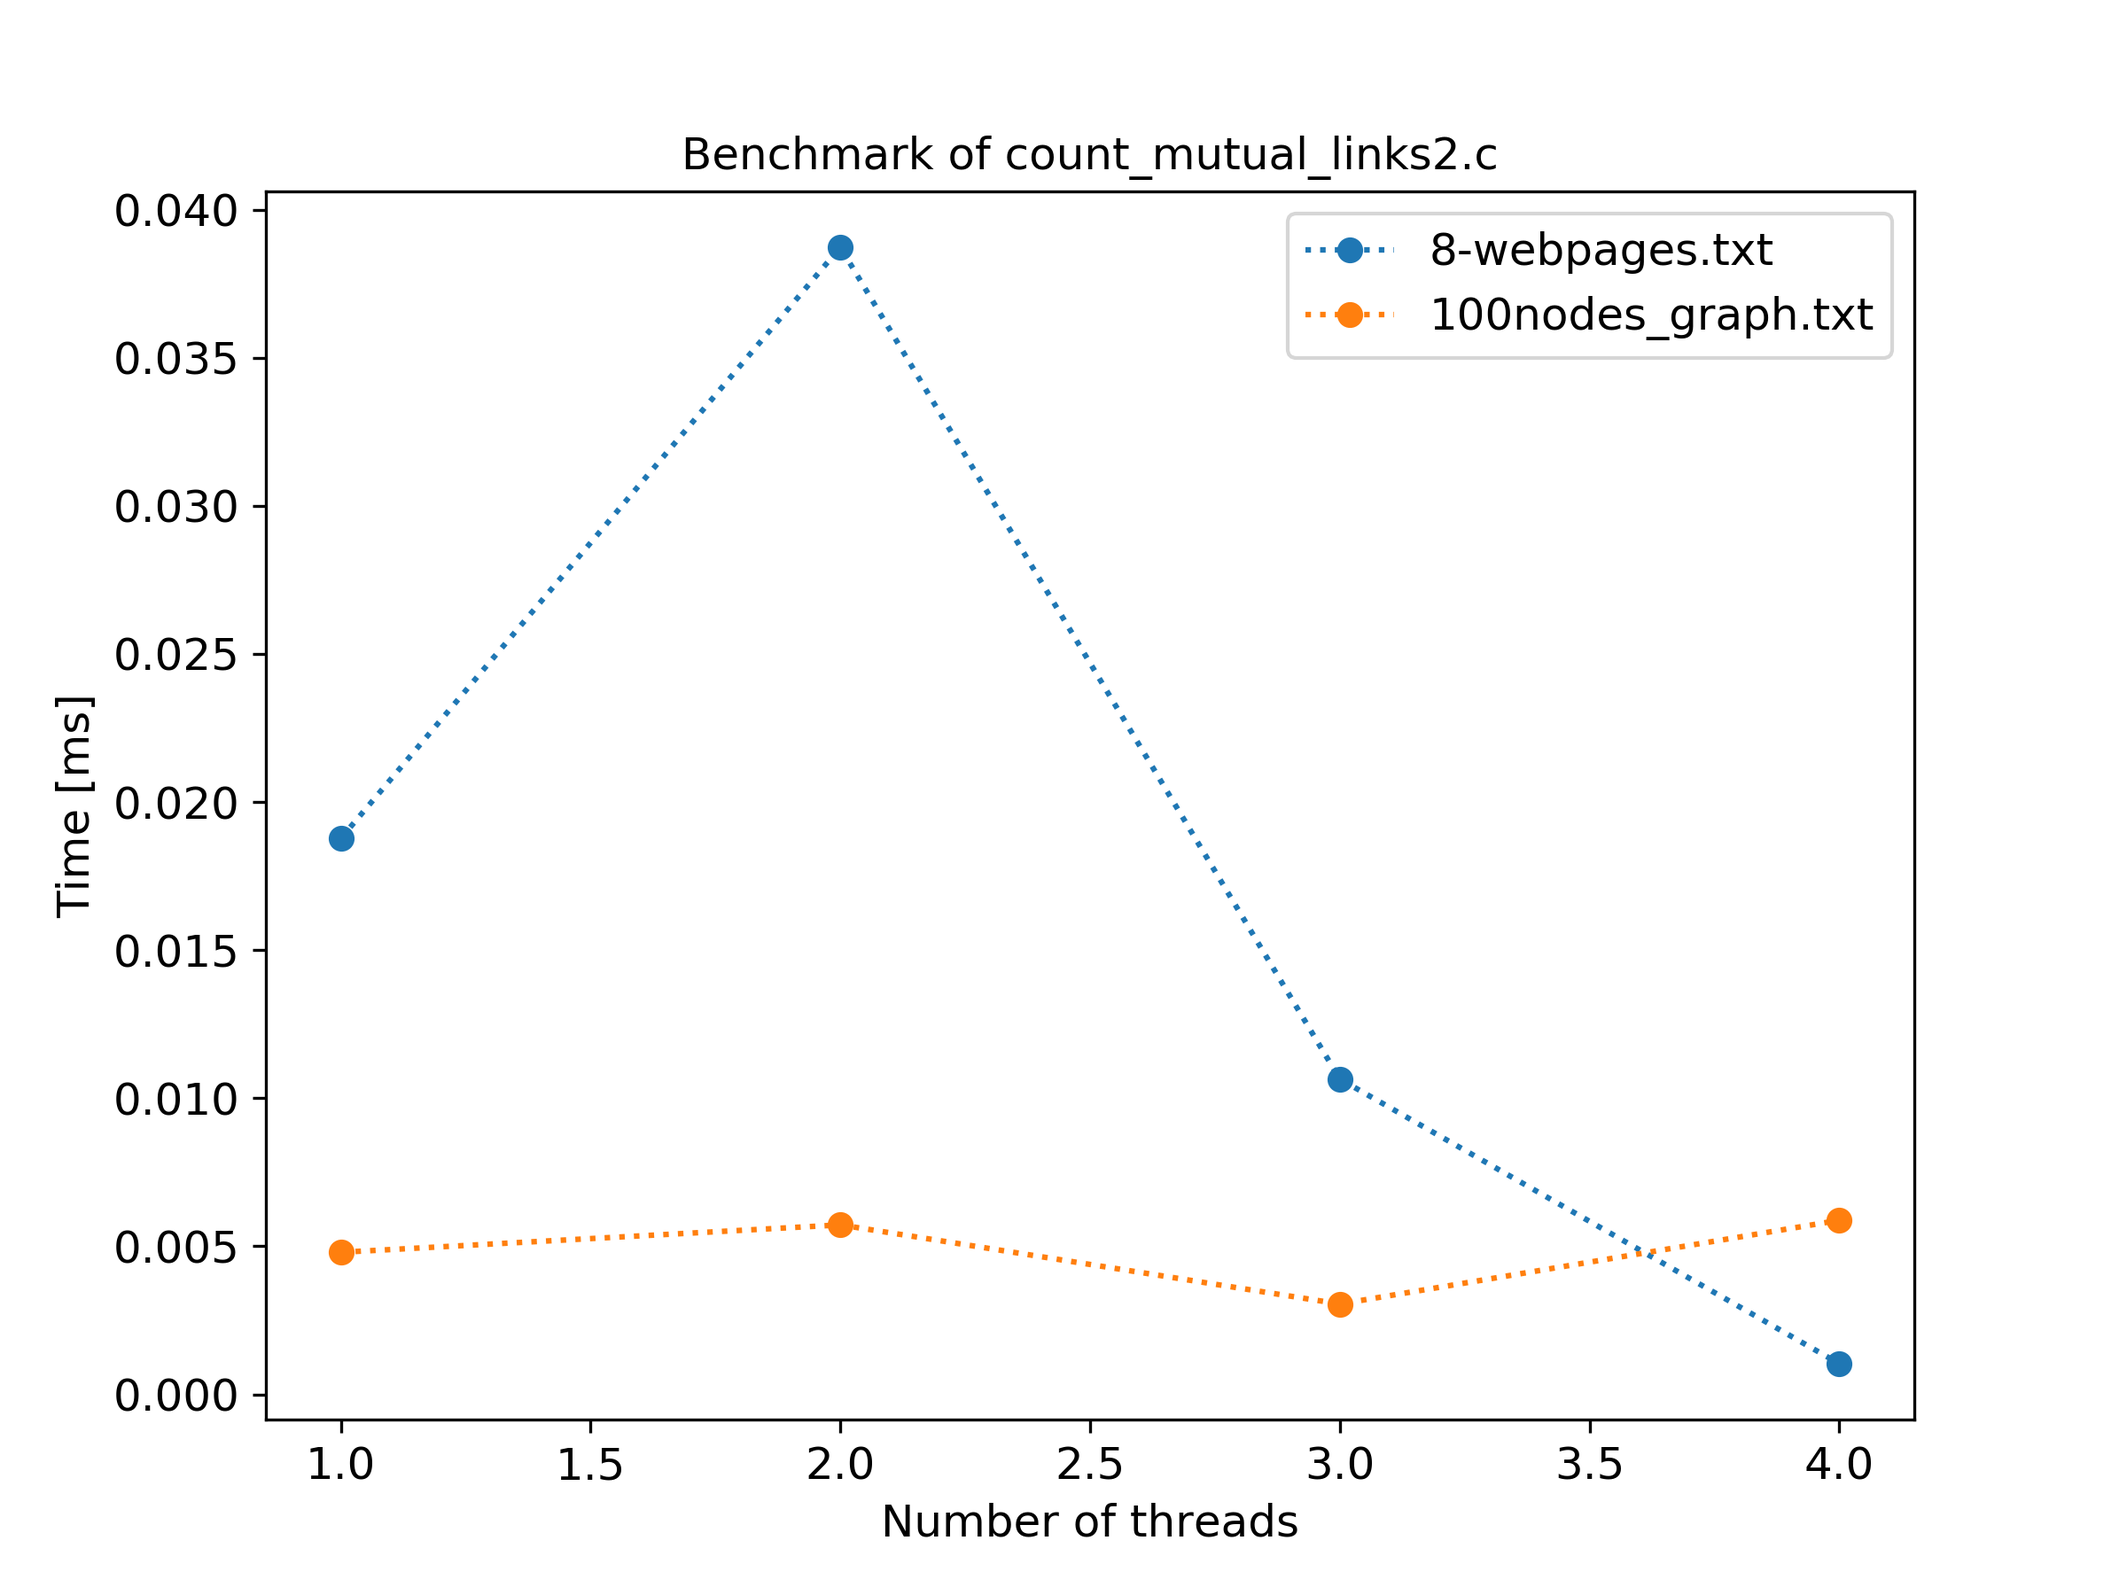
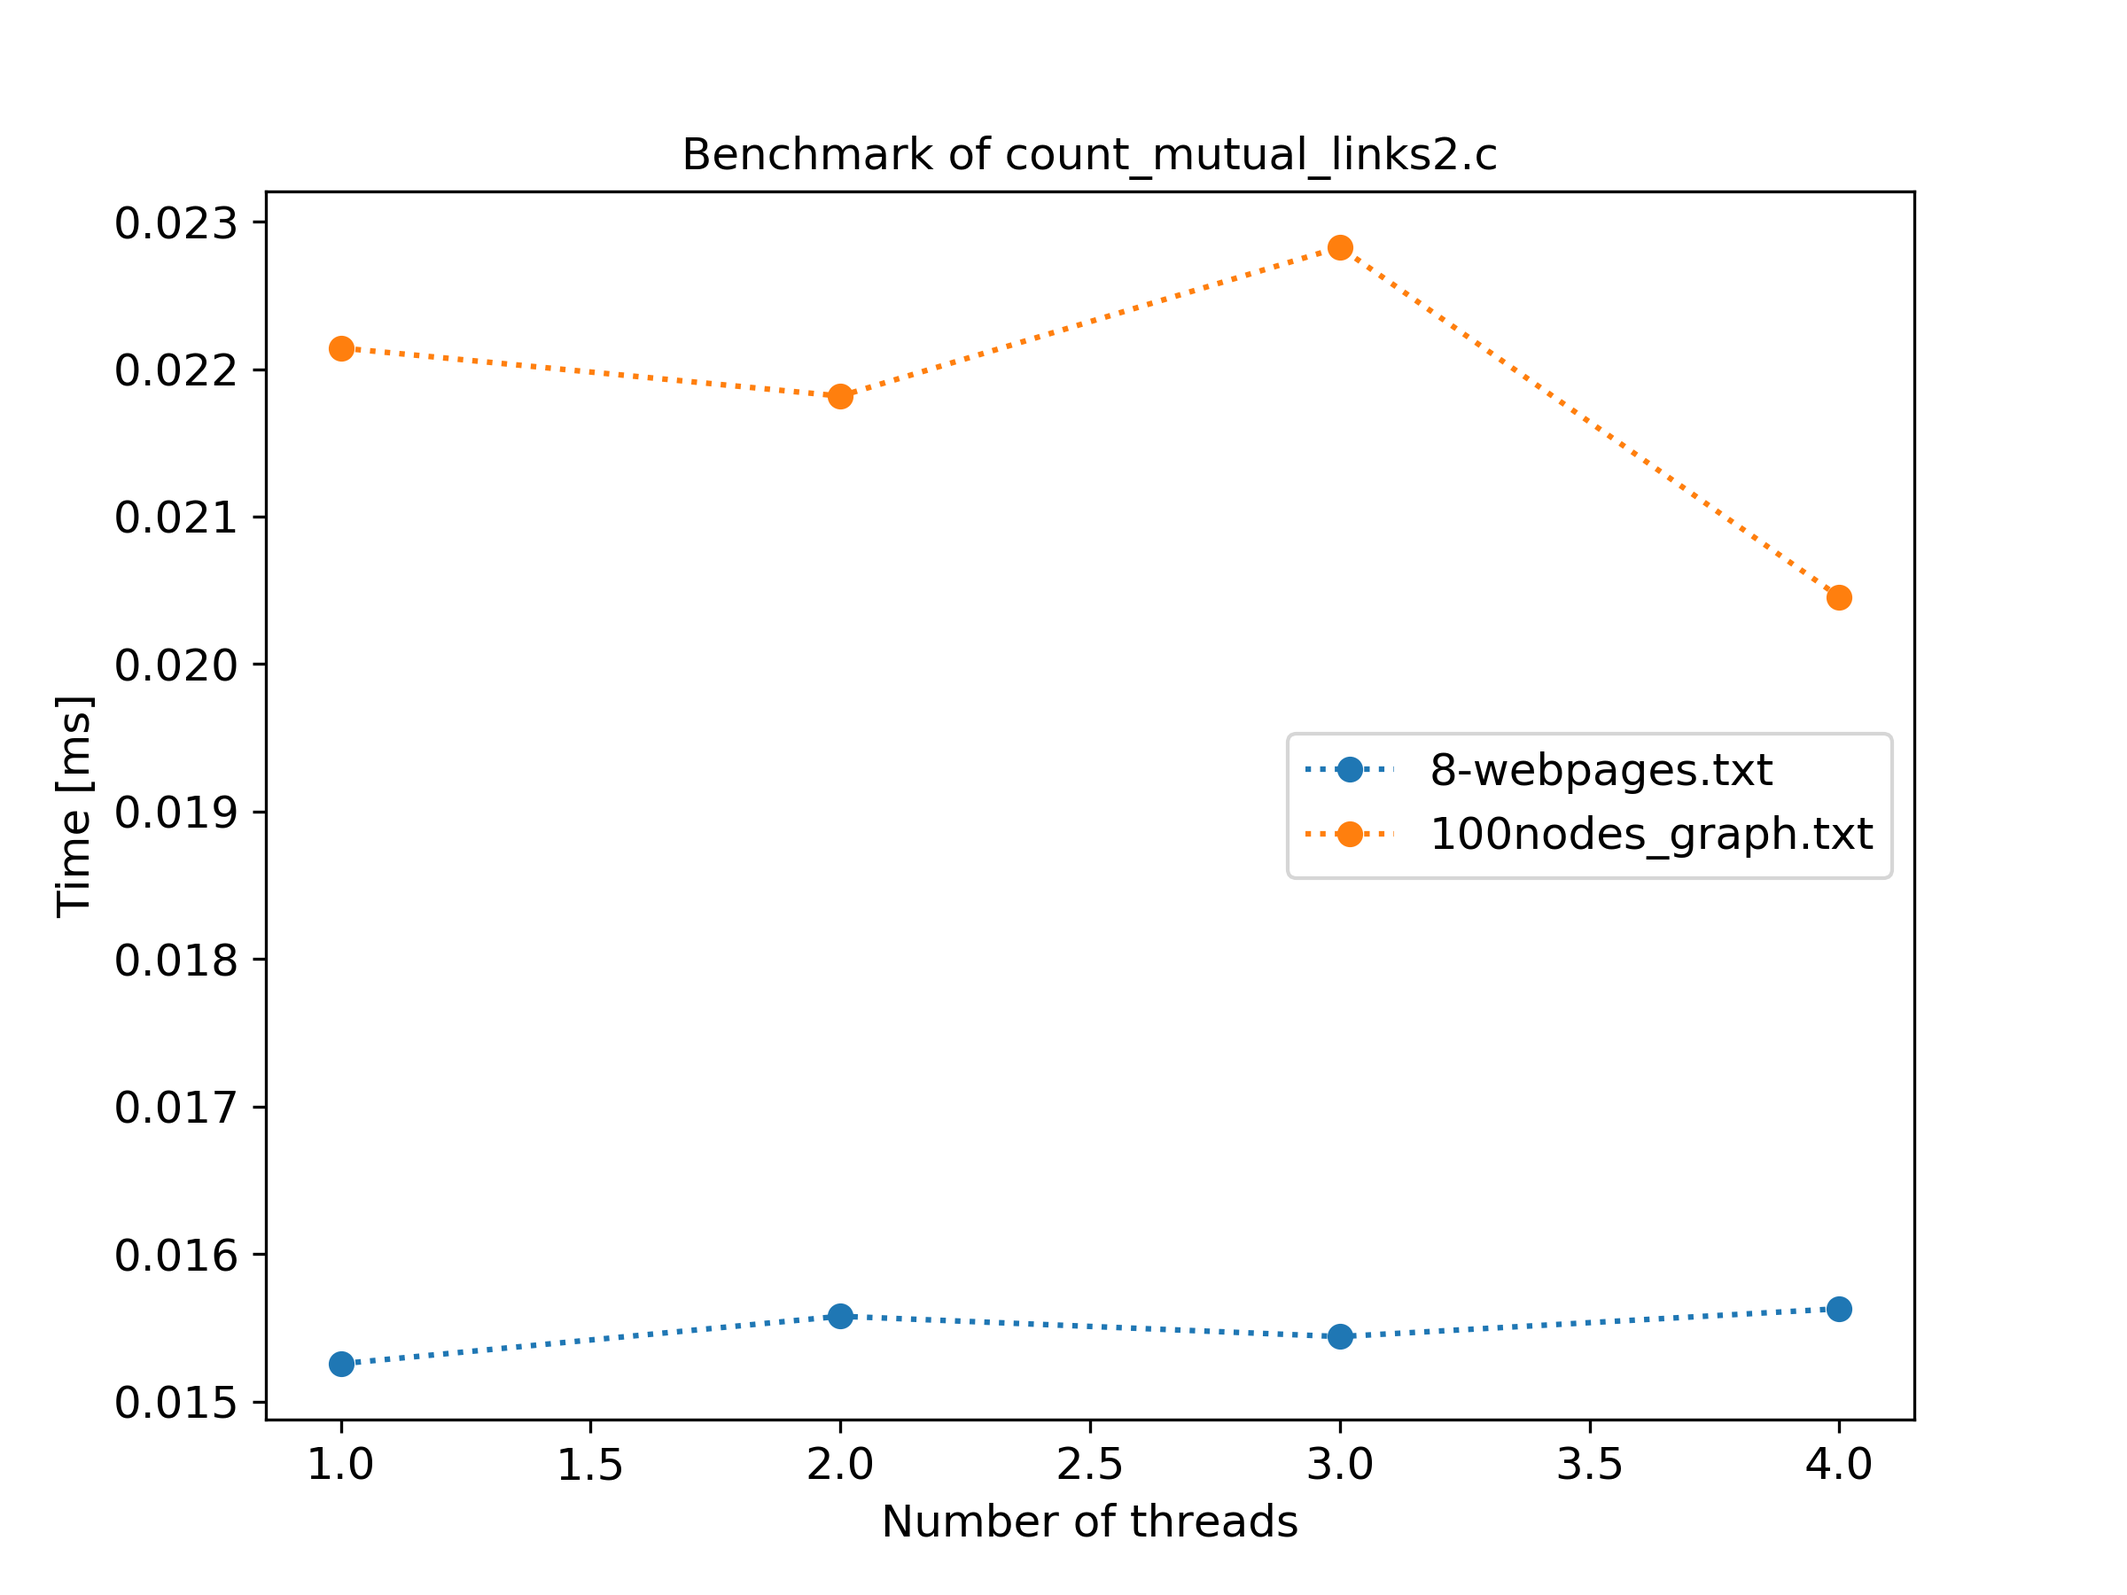
Code

diff --git a/IN4200_HE1_15244/test.c b/IN4200_HE1_15244/test.c
@@ -159,7 +159,6 @@ int test_read_graph_from_file1()
 	for (size_t i = 0; i < 8; ++i) {
 		for (size_t j = 0; j < 8; ++j) {
 			if (table2D_expected[i][j] != table2D[i][j]) {
-				printf("Failed test 'Compare table2D'. Entries don't match expectation.\n");
 				flag = 1;
 			}
 		}
@@ -167,6 +166,9 @@ int test_read_graph_from_file1()
 	if (flag == 0) {
 		printf("Passed test 'Compare table2D'. Entries matched expectation.\n");
 		passed_tests += 1;
+	}
+	else{
+		printf("Failed test 'Compare table2D'. Entries don't match expectation.\n");
 	}
 	printf("Read table:\n");
 	printmat(table2D, N, N);
@@ -230,13 +232,15 @@ int test_read_graph_from_file2()
 	for (size_t i=0; i<N+1; i++) {
 		if (row_ptr_expected[i] != row_ptr[i])
 		{
-			printf("Failed test 'Compare row_ptr'. Entries don't match expectation.\n");
 			flag = 1;
 		}
 	}
 	if (flag == 0) {
 		printf("Passed test 'Compare row_ptr'. Entries matched expectation.\n");
 		passed_tests += 1;
+	}
+	else{
+		printf("Failed test 'Compare row_ptr'. Entries don't match expectation.\n");
 	}
 
 	printf("Read row_ptr:\n");
@@ -247,13 +251,15 @@ int test_read_graph_from_file2()
 	for (size_t i=0; i<N_links; i++) {
 		if (col_idx_expected[i] != col_idx[i])
 		{
-			printf("Failed test 'Compare row_ptr'. Entries don't match expectation.\n");
 			flag2 = 1;
 		}
 	}
 	if (flag2 == 0) {
-		printf("Passed test 'Compare row_ptr'. Entries matched expectation.\n");
+		printf("Passed test 'Compare col_idx'. Entries matched expectation.\n");
 		passed_tests += 1;
+	}
+	else{
+		printf("Failed test 'Compare col_idx'. Entries don't match expectation.\n");
 	}
 	printf("Read col_idx:\n");
 	printvec(col_idx, N_links);
@@ -293,13 +299,13 @@ int test_count_mutual_links1()
 	printf("\nTime usage:\ncount_mutual_links1() took %f milliseconds to execute \n\n", 1000*t_tot);
 
 	// Test: Count mutual links
-	if (N == 8) {
+	if (mutual_links == 13) {
 		printf("Passed test 'Count mutual links'. Expected: 13. Found: %d\n", mutual_links);
 		passed_tests += 1;
 	}
 	else
 	{
-		printf("Failed test 'Count mutual links'. Expected: 13. Found: %d\n", N);
+		printf("Failed test 'Count mutual links'. Expected: 13. Found: %d\n", mutual_links);
 	}
 
 	// Test: Compare counted num_involvements vs expected
@@ -307,13 +313,15 @@ int test_count_mutual_links1()
 	for (size_t i=0; i<N; i++) {
 		if (num_involvements_expected[i] != num_involvements[i])
 		{
-			printf("Failed test 'Compare num_involvements'. Entries don't match expectation.\n");
 			flag = 1;
 		}
 	}
 	if (flag == 0) {
 		printf("Passed test 'Compare num_involvements'. Entries matched expectation.\n");
 		passed_tests += 1;
+	}
+	else{
+		printf("Failed test 'Compare num_involvements'. Entries don't match expectation.\n");
 	}
 
 	printf("Counted num_involvements:\n");
@@ -356,13 +364,13 @@ int test_count_mutual_links2()
 	printf("\nTime usage:\ncount_mutual_links2() took %f milliseconds to execute \n\n", 1000*t_tot);
 
 	// Test: Count mutual links
-	if (N == 8) {
+	if (mutual_links == 13) {
 		printf("Passed test 'Count mutual links'. Expected: 13. Found: %d\n", mutual_links);
 		passed_tests += 1;
 	}
 	else
 	{
-		printf("Failed test 'Count mutual links'. Expected: 13. Found: %d\n", N);
+		printf("Failed test 'Count mutual links'. Expected: 13. Found: %d\n", mutual_links);
 	}
 
 	// Test: Compare counted num_involvements vs expected
@@ -370,13 +378,15 @@ int test_count_mutual_links2()
 	for (size_t i=0; i<N; i++) {
 		if (num_involvements_expected[i] != num_involvements[i])
 		{
-			printf("Failed test 'Compare num_involvements'. Entries don't match expectation.\n");
 			flag = 1;
 		}
 	}
 	if (flag == 0) {
 		printf("Passed test 'Compare num_involvements'. Entries matched expectation.\n");
 		passed_tests += 1;
+	}
+	else{
+		printf("Failed test 'Compare num_involvements'. Entries don't match expectation.\n");
 	}
 
 	printf("Counted num_involvements:\n");
@@ -426,13 +436,15 @@ int test_calc_top_n_webpages()
 	for (size_t i=0; i<n; i++) {
 		if (top_results_expected[i] != top_results[i])
 		{
-			printf("Failed test 'Compare top_results'. Entries don't match expectation.\n");
 			flag = 1;
 		}
 	}
 	if (flag == 0) {
 		printf("Passed test 'Compare top_results'. Entries matched expectation.\n");
 		passed_tests += 1;
+	}
+	else{
+		printf("Failed test 'Compare top_results'. Entries don't match expectation.\n");
 	}
 
 	printf("Calculated top_results:\n");

diff --git a/IN4200_HE1_15244/src/read_graph_from_file2.c b/IN4200_HE1_15244/src/read_graph_from_file2.c
@@ -1,5 +1,6 @@
 #include "read_graph_from_file2.h"
 
+
 //=============================================================================
 void read_graph_from_file2(char *filename, int *N, int *N_links, int **row_ptr, int **col_idx)
 //----------------------------------------------------------------------------
@@ -16,9 +17,9 @@ void read_graph_from_file2(char *filename, int *N, int *N_links, int **row_ptr, 
 //
 // About CRS
 // ---------
-// A 2D table element is only set to 1 if there is a direct link. In most cases
-// N_links is relatively small compared to N, which means that most of the
-// values in the 2D table will be zero. This can result in a huge waste of
+// A 2D table element is only set to 1 if there is a direct link. In cases
+// where N is large and N_links is relatively small, most of the values
+// in the 2D table will be zero. This can result in a huge waste of
 // storage. By adopting the compressed row storage (CRS) format, the waste is
 // avoided. The idea is that two 1D arrays of integer values are enough to store
 // the data. The col_idx array of length N_links stores, row by row, the column
@@ -51,36 +52,44 @@ void read_graph_from_file2(char *filename, int *N, int *N_links, int **row_ptr, 
 	fscanf(datafile, "%*s %*s %d %*s %d \n", &*N, &*N_links);  // Read 3rd line
 	fscanf(datafile, "%*[^\n]\n");                   // Skip 4th line
 
-	// Allocate col_idx and row_ptr initialized with zeros
-	*col_idx = calloc((*N_links), sizeof(*col_idx));
-	*row_ptr = calloc((*N)+1, sizeof(*row_ptr));
+	// Allocate row_ptr initialized with zeros
+	*row_ptr = (int*)calloc((*N)+1, sizeof(*row_ptr));
 
-	// Allocate ToNode and FromNode initialized with zeros. These arrays are for
-	// storing the the indices of inbound and outbound webpages
-	int *ToNode = calloc((*N_links), sizeof(*ToNode));
-	int *FromNode = calloc((*N_links), sizeof(*FromNode));
+	// Allocate ToNode and FromNode. These arrays are for storing
+	// the indices of inbound and outbound webpages
+	int *ToNode= (int*)calloc((*N_links), sizeof(*ToNode));
+	int *FromNode = (int*)calloc((*N_links), sizeof(*FromNode));
 
-	// Allocate counter initialized with zeros. This array is for ensuring
-	// correct index offset when row_ptr is used to access col_idx in the
-	// creation of the latter
-	int *counter = calloc((*N), sizeof(*counter));
-
-	for(size_t k = 0; k < *N_links; k++) {
+	int N_links_valid = 0;
+	for(size_t k=0; k<(*N_links); k++) {
 		fscanf(datafile, "%d %d", &j, &i);
-		(*row_ptr)[i+1]++;  // count the number of direct links
-		ToNode[k] = i;
-		FromNode[k] = j;
+		if ((i != j) && (i < (*N)) && (j < (*N))) { // Exclude self- and illegal links
+			(*row_ptr)[i+1]++; // count the number of direct links
+			ToNode[N_links_valid] = i;
+			FromNode[N_links_valid] = j;
+			N_links_valid++;  // count valid links
+		}
 	}
+
+	(*N_links) = N_links_valid;  // Set N_links equal to valid links only
 
 	// Cumulative summation yielding the indices at which new rows start in col_idx
 	for (size_t i = 1; i < (*N)+1; i++) {
 		(*row_ptr)[i] += (*row_ptr)[i-1];
 	}
 
+	// Allocate col_idx initialized with zeros with length of valid links only
+	*col_idx = (int*)calloc((*N_links), sizeof(*col_idx));
+
+	// Allocate counter initialized with zeros. This array is for ensuring
+	// correct index offset when row_ptr is used to access col_idx in the
+	// creation of the latter
+	int *counter = (int*)calloc((*N), sizeof(*counter));
+
 	// Use row_ptr to access the row corresponding to a direct link. The counter
 	// ensures that no values in col_idx is overwritten by offsetting the row
 	// indices if already accessed.
-	for (size_t i=0; i<*N_links; i++) {
+	for (size_t i=0; i<(*N_links); i++) {
 		(*col_idx)[(*row_ptr)[ToNode[i]] + counter[ToNode[i]]] = FromNode[i];
 		counter[ToNode[i]]++;
 	}

diff --git a/IN4200_HE1_15244/src/count_mutual_links2.c b/IN4200_HE1_15244/src/count_mutual_links2.c
@@ -1,5 +1,6 @@
 #include "count_mutual_links2.h"
 
+
 //=============================================================================
 int count_mutual_links2(int N, int N_links, int *row_ptr, int *col_idx, int *num_involvements)
 //----------------------------------------------------------------------------
@@ -27,7 +28,7 @@ int count_mutual_links2(int N, int N_links, int *row_ptr, int *col_idx, int *num
 	int mutual_links = 0;
 	int counter;
 
-	#if defined(_OPENMP)
+ #ifdef _OPENMP
 	{
 		// Parallelized version
 
@@ -36,9 +37,8 @@ int count_mutual_links2(int N, int N_links, int *row_ptr, int *col_idx, int *num
 		// without num_involvements[:N] in the reduction, but this does not always
 		// yield the correct results. To run on IFI machines, change which #pragma
 		// is commented out
-
-		//#pragma omp parallel for private(counter) reduction(+:mutual_links)
-		 #pragma omp parallel for private(counter) reduction(+:mutual_links, num_involvements[:N])
+//#pragma omp parallel for private(counter) reduction(+:mutual_links)
+		#pragma omp parallel for private(counter) reduction(+:mutual_links, num_involvements[:N])
 		for (int i = 0; i < N; i++) {
 			// Mutual linkage occurences in current row
 			counter = row_ptr[i+1] - row_ptr[i];
@@ -53,9 +53,8 @@ int count_mutual_links2(int N, int N_links, int *row_ptr, int *col_idx, int *num
 				num_involvements[col_idx[j]] += counter-1;
 			}
 		}
-
 	}
-	#else
+ #else
 	{
 		// Serial version
 
@@ -74,7 +73,7 @@ int count_mutual_links2(int N, int N_links, int *row_ptr, int *col_idx, int *num
 			}
 		}
 	}
-	#endif
+ #endif
 
 	return mutual_links;
 }

diff --git a/IN4200_HE1_15244/src/top_n_webpages.c b/IN4200_HE1_15244/src/top_n_webpages.c
@@ -85,7 +85,7 @@ void calc_top_n_webpages(int num_webpages, int *num_involvements, int *top_resul
 
 	int top_webpage = 0;
 
- #if defined(_OPENMP)
+ #ifdef _OPENMP
 	{
 		// Parallelized version
 
@@ -93,14 +93,17 @@ void calc_top_n_webpages(int num_webpages, int *num_involvements, int *top_resul
 		// to allocate sufficient storage dynamically for the top results across
 		// all threads in the team formed at the subsequent active parallel region
 		int Nt = omp_get_max_threads();
-		int *top_results_tmp = malloc(n*Nt * sizeof(*top_results_tmp));
+		int *top_results_tmp = (int *)malloc(n*Nt * sizeof(*top_results_tmp));
+		int i, j;
+		int maxval;
 
  #pragma omp parallel
 		{
 			int id = omp_get_thread_num();
 			for (int i=0; i<n; i++) {
-				if (id<Nt) {
+				if (id != Nt-1) {
 					// Split list between threads
+					maxval = -1;
 					for (int j=id*num_webpages/Nt; j<(id+1)*num_webpages/Nt; j++) {
 						// Find the index (corresponds to webpage node) with maximum number
 						// of involvements
@@ -131,7 +134,6 @@ void calc_top_n_webpages(int num_webpages, int *num_involvements, int *top_resul
 			{
 				// Recopy the num_involvements array since the previous copy is mutated
 				memcpy(num_involvements_cpy, num_involvements, num_webpages*sizeof(num_involvements));
-
 				for (int i=0; i<n; i++) {
 					// For each webpage to rank
 					for (int j=0; j<n*Nt; j++) {
@@ -151,9 +153,9 @@ void calc_top_n_webpages(int num_webpages, int *num_involvements, int *top_resul
 				}
 			}
 		}
-
 		// Deallocate top results array used by all threads
 		free(top_results_tmp);
+
 	}
  #else
 	{

diff --git a/IN4200_HE1_15244/benchmark_automation.py b/IN4200_HE1_15244/benchmark_automation.py
@@ -95,8 +95,8 @@ if __name__ == "__main__":
               10000, 4, "count2_test_set.png")
     # Benchmark count_mutual_links2 with real-world web graphs. 10 000 reps
     benchmark(graphfiles2, "count_mutual_links2.c",
-              10000, 4, "count2_real_set.png")
+              100, 4, "count2_real_set.png")
     # Benchmark calc_top_n_webpages with test web graphs. 10 000 reps
-    benchmark(graphfiles1, "top_n_webpages.c", 10000, 4, "top_n_test_set.png")
+    benchmark(graphfiles1, "top_n_webpages.c", 1000, 4, "top_n_test_set.png")
     # Benchmark calc_top_n_webpages with real-world web graphs. 500 reps
-    benchmark(graphfiles2, "top_n_webpages.c", 500, 4, "top_n_real_set.png")
+    benchmark(graphfiles2, "top_n_webpages.c", 100, 4, "top_n_real_set.png")

diff --git a/IN4200_HE1_15244/main.c b/IN4200_HE1_15244/main.c
@@ -67,8 +67,8 @@ int main(int argc, char *argv[])
 		int *num_involvements = calloc((N), sizeof(*num_involvements));
 		mutual_links = count_mutual_links2(N, N_links, row_ptr, col_idx, num_involvements);
 		printf("Total number of mutual links: %d\n", mutual_links);
-		//top_n_webpages(N, num_involvements, n);
-		top_n_webpages_serial_faster(N, num_involvements, n);    // this is the fastest
+		top_n_webpages(N, num_involvements, n);
+		//top_n_webpages_serial_faster(N, num_involvements, n);    // this is the fastest
 
 		free(row_ptr);
 		free(col_idx);

diff --git a/IN4200_HE1_15244/src/count_mutual_links1.c b/IN4200_HE1_15244/src/count_mutual_links1.c
@@ -25,11 +25,11 @@ int count_mutual_links1(int N, char **table2D, int *num_involvements)
 	int mutual_links = 0;
 	int counter = 0;
 
-	#if defined(_OPENMP)
+	#ifdef _OPENMP
 	{
 		// Parallelized version
 
-		#pragma omp parallel for private(counter) reduction(+:mutual_links)
+		#pragma omp parallel for private(counter) reduction(+:mutual_links) schedule(auto)
 		for (int i=0; i<N; i++) {
 			counter = 0;  // Reset for each row (or webpage)
 			for (int j=0; j<N; j++) {

diff --git a/IN4200_HE1_15244/src/read_graph_from_file1.c b/IN4200_HE1_15244/src/read_graph_from_file1.c
@@ -55,7 +55,9 @@ void read_graph_from_file1 (char *filename, int *N, char ***table2D)
 	// to webpage i (inbound)
 	for (size_t k=0; k<nedges; k++) {
 		fscanf(datafile, "%d %d", &j, &i);
-		(*table2D)[i][j] = 1;
+		if ((i != j) && (i < (*N)) && (j < (*N)))  {  // Exclude self- and illegal links
+			(*table2D)[i][j] = 1;
+		}
 	}
 
 	fclose(datafile);

diff --git a/IN4200_HE1_15244/src/read_graph_from_file2.h b/IN4200_HE1_15244/src/read_graph_from_file2.h
@@ -10,6 +10,7 @@
 #include <math.h>
 #include <time.h>
 #include <omp.h>
+#include <string.h>
 
 //=================================
 // Function prototypes
